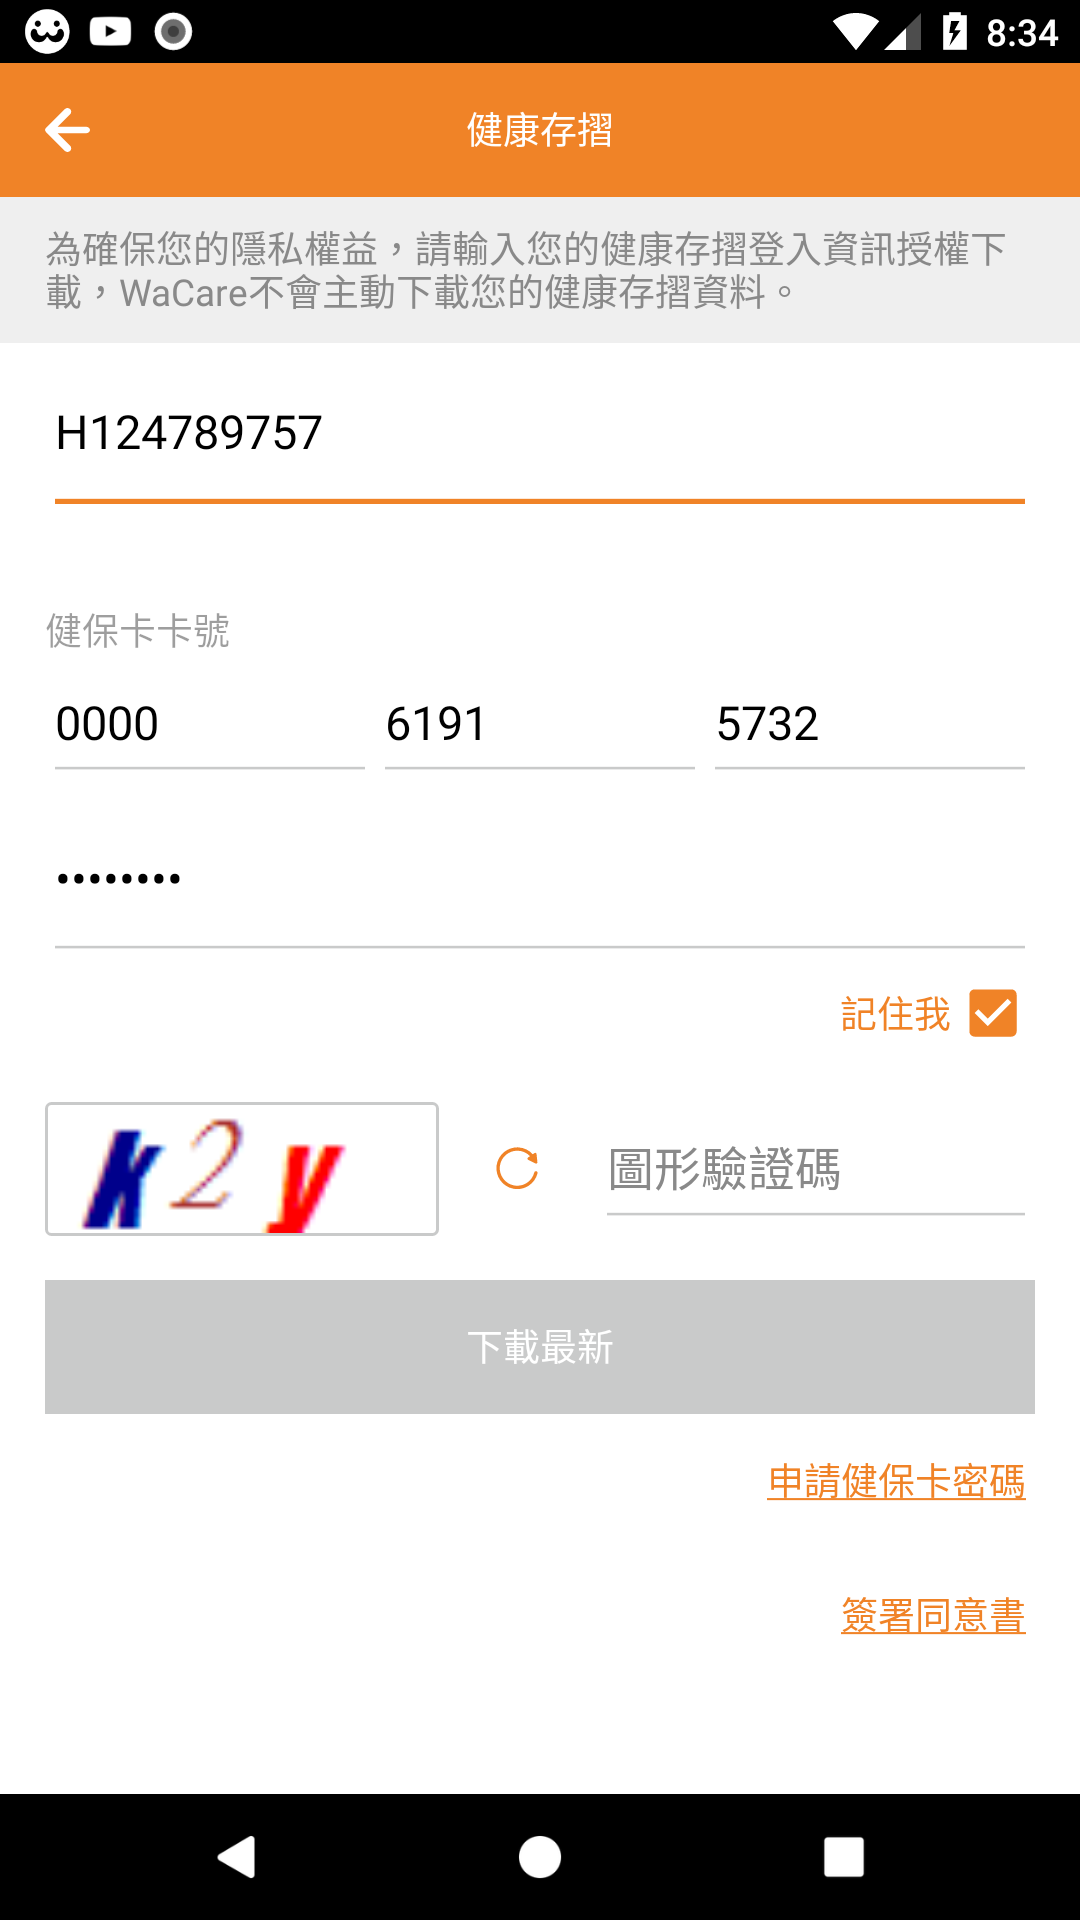
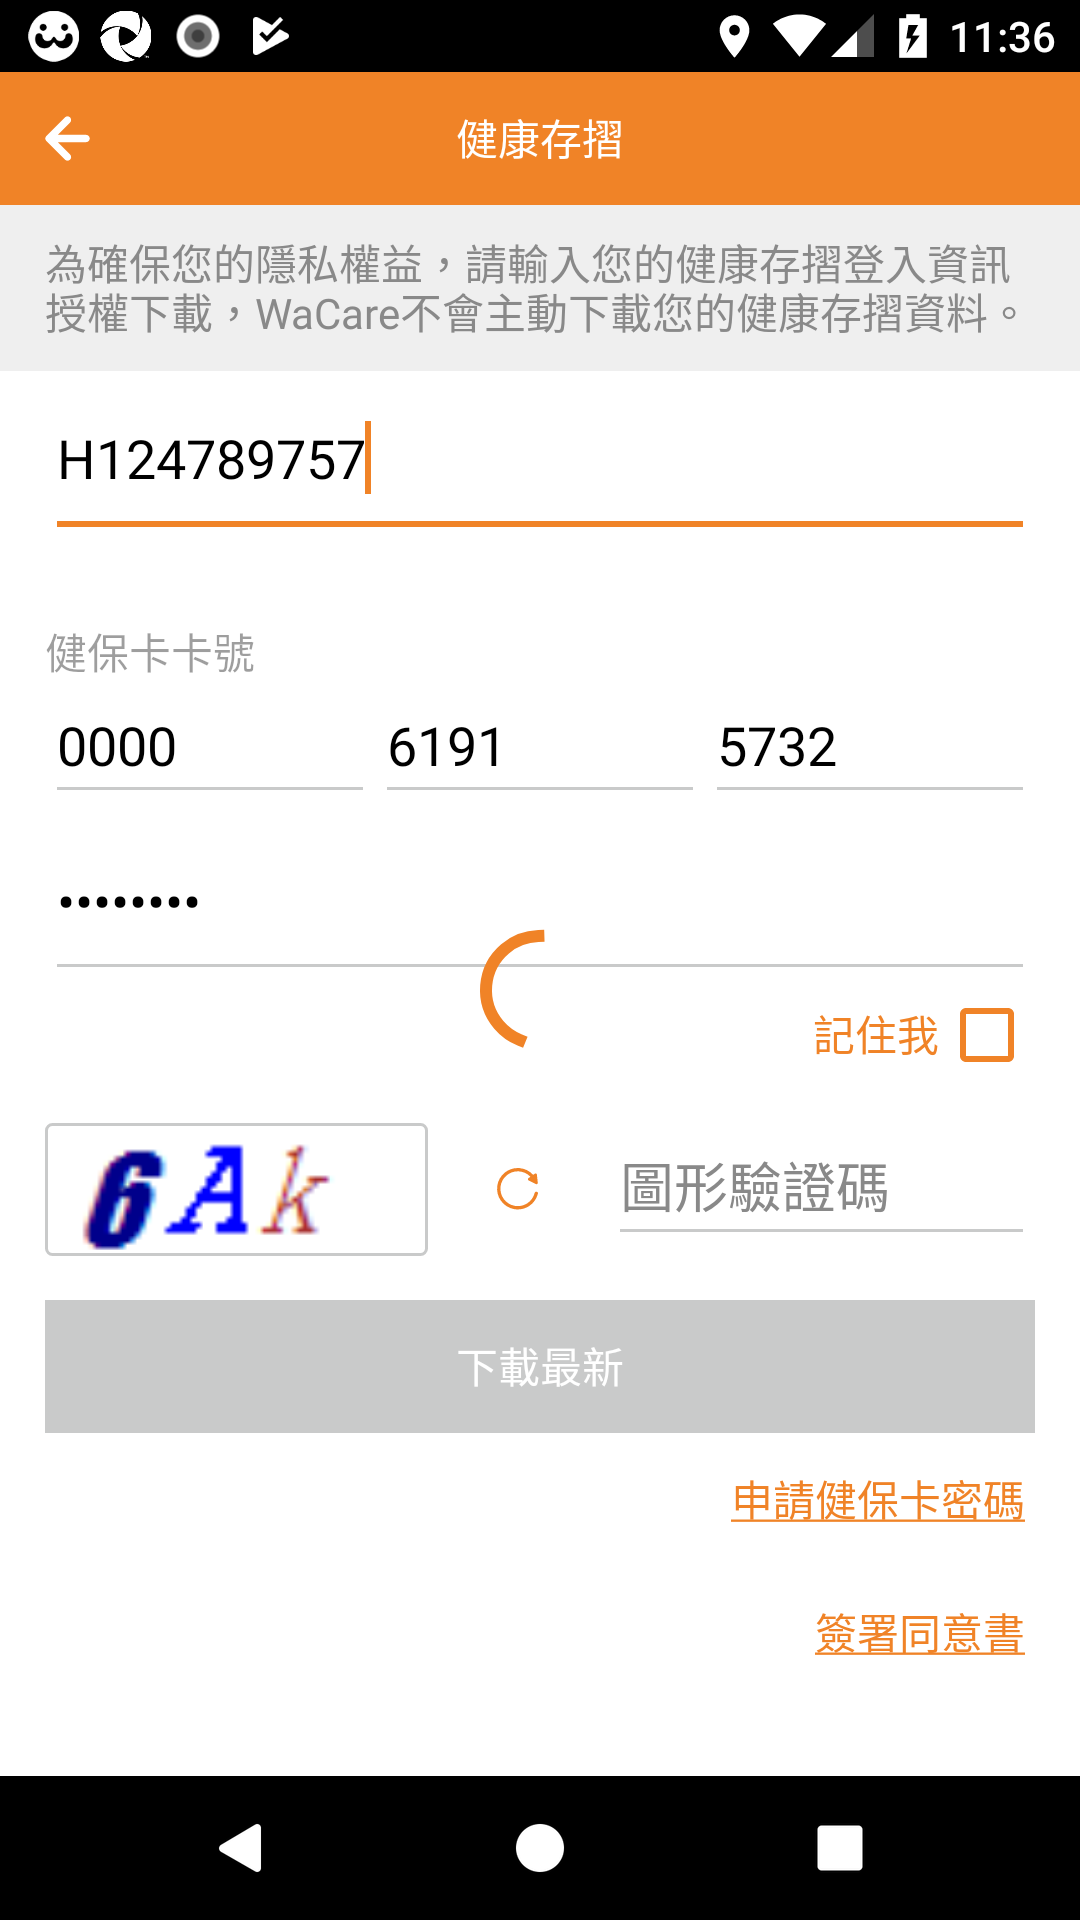
edit testscript.py

diff --git a/src/test_script/testscript.py b/src/test_script/testscript.py
@@ -1,6 +1,7 @@
 #!/usr/bin/python
 # -*- coding: utf-8 -*-
 
+import re
 import sys
 from PIL import Image
 import cv2
@@ -51,7 +52,7 @@ class script():
 		sleep(10)
 		self.driver.get_screenshot_as_file("screenImg.png")
 		result = self.imgageToString()
-		getverification = false
+		getverification = False
 		while(getverification != True):
 			print("Resutl under while: "+result)
 			if(len(result) != 3):
@@ -62,8 +63,14 @@ class script():
 			else:
 				self.ec.enter(result, self.apkVersionIdName+"/et_loginBankCaptcha")
 				self.ck.clickByResourceID(self.apkVersionIdName+"/tv_loginBankDownload")
-				if(self.gt.search4Toast("檔案將於數分鐘後自動完成下載並通知您，請確保網路連線", mode=True)):
+				#if(self.gt.search4Toast("檔案將於數分鐘後自動完成下載並通知您，請確保網路連線", mode=True)):
+				sleep(2)
+				if(self.ft.findText("更新時間", mode=1)):
 					getverification = True
+				else:
+					sleep(5)
+					result = self.imgageToString()
+					print("Result in else: "+result)
 		self.ft.findTextInWholePage("健康存摺")
 		self.driver.keyevent("4")
 		self.ft.findTextInWholePage("設定")
@@ -98,6 +105,7 @@ class script():
 		print("-----Test for ", sys._getframe().f_code.co_name, " finish!!!!!!")
 
 	def imgageToString(self):
+		self.driver.get_screenshot_as_file("screenImg.png")
 		photo = Image.open('screenImg.png')
 		box = (30, 1110, 429, 1260)
 		photo.crop(box).save('Verification.png')
@@ -112,7 +120,9 @@ class script():
 		# 畢竟提供的庫識別能力有限，不一定能完整得到結果，需要對結果進行篩選
 		#result = re.sub('[a-zA-Z’!"#$%&()*+,-./:;<=>，。?★、…【】《》？“”‘’！[]^_`{|}~]+', '', result.replace(' ', ''), re.S)
 		result = re.sub('[!"#$%&()*+,-./:;<=>，。?★、…【】《》？“”‘’！[]^_`{|}~]+', '', result)
-		print(result)
+		result.replace(' ', '')
+		
+		print(result, len(result))
 		return result
 		
 	def handle_verification_code(self, img):
@@ -123,7 +133,7 @@ class script():
 		# 讀取圖片，0意味著圖片變為灰度圖
 		image = cv2.imread(image, 0)
 		# 圖片二值化，100為設定閥值，255為最大閥值，1為閥值型別，當前點值大於閥值，設定為0，否則設定為255。ret是return value縮寫，代表當前的閥值
-		ret, image = cv2.threshold(image, 100, 255, 1)
+		ret, image = cv2.threshold(image, 190, 255, 1)
 		# 圖片的高度和寬度
 		height, width = image.shape
 		print(height, width)

diff --git a/src/Motion.py b/src/Motion.py
@@ -333,11 +333,11 @@ class getToast():
 		except:
 			print("Toast does not exist!!!" )
 			if(mode):	
-				return True	
+				return False	
 		else:
 			print("FInd toast!!!!")
 			if(mode):
-				return False
+				return True
 class findSpecificText():
 	def __init__(self, driver):
 		self.driver = driver
